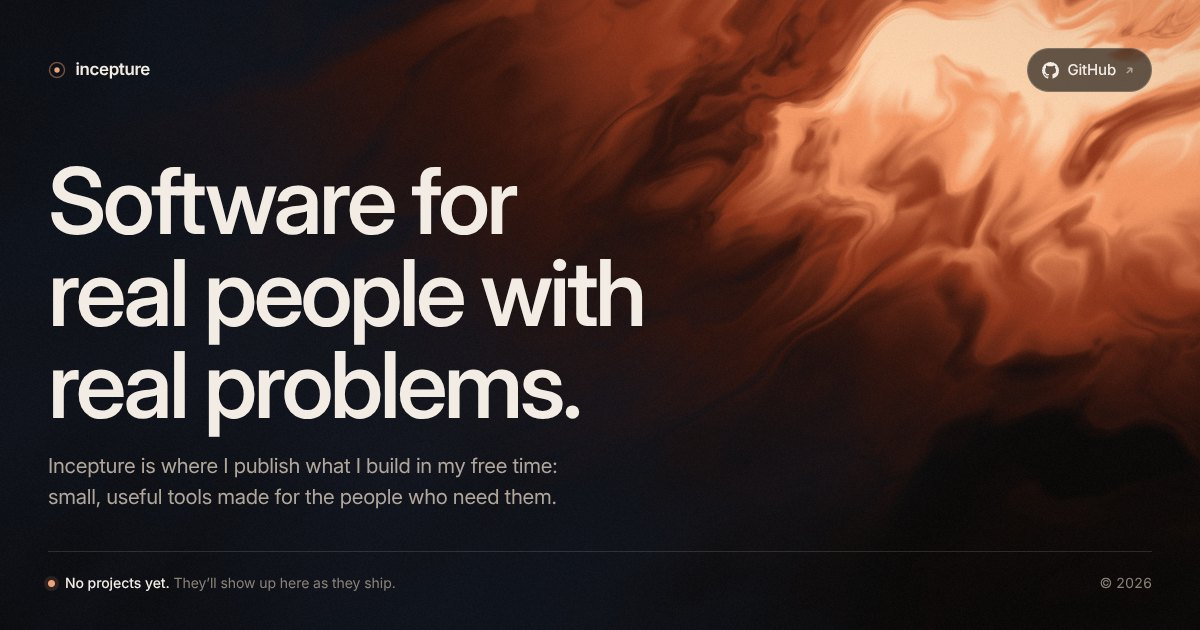
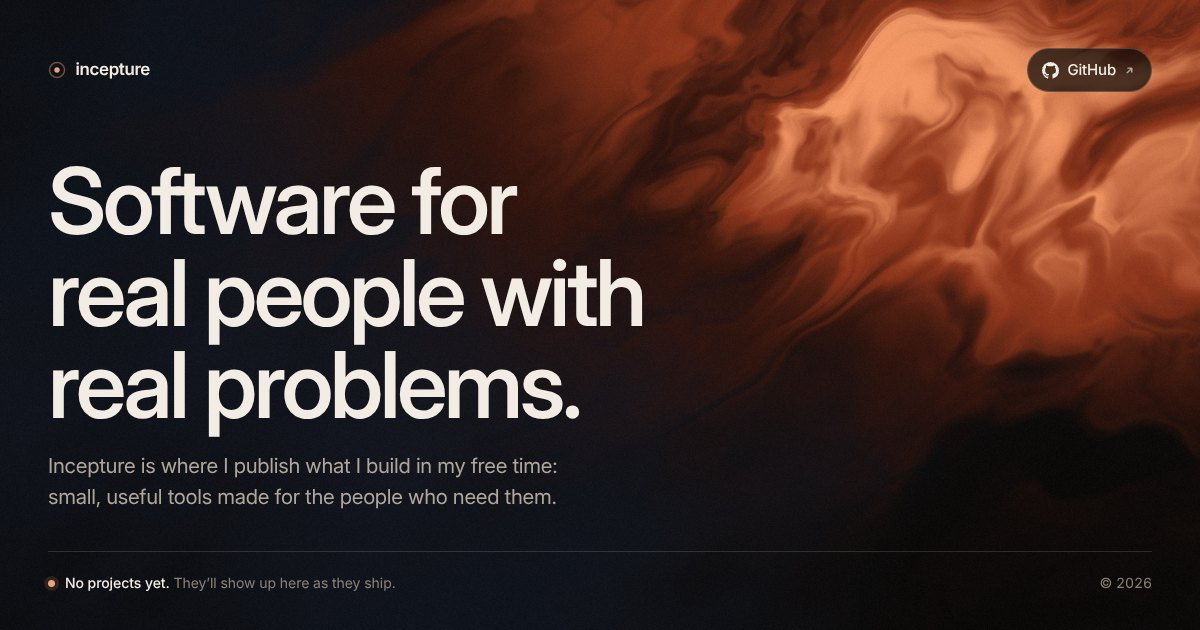
Dim the lit corner behind the GitHub link
Claude-Session: https://claude.ai/code/session_01MUDdStaj4zessN2r1XYXXu

Changed region(s): [[0.6167, 0.0, 1.0, 0.4222]]

diff --git a/shader.js b/shader.js
@@ -85,19 +85,21 @@
       float d = length((uv - corner) * vec2(1.0, 0.92));
       float light = smoothstep(1.18, 0.12, d);
       light *= light;
+      // Ease off in the corner itself, where the GitHub link sits.
+      light *= 0.66 + 0.34 * smoothstep(0.04, 0.5, d);
 
       // Folds: broad body from the warp, a sharper crest where it turns over.
       float body = smoothstep(0.22, 0.78, f);
       float crest = pow(clamp(1.0 - abs(r.x - r.y) * 3.2, 0.0, 1.0), 3.0);
       float v = body * (0.10 + 0.90 * light) + crest * 0.34 * light;
-      v *= 0.52 + 0.62 * light;
+      v *= 0.52 + 0.58 * light;
 
       vec3 col = INK;
       col = mix(col, SLATE, smoothstep(0.30, 0.75, q.y) * (0.30 + 0.45 * (1.0 - light)));
       col = mix(col, UMBER, smoothstep(0.02, 0.28, v));
       col = mix(col, SIENNA, smoothstep(0.22, 0.56, v));
       col = mix(col, APRICOT, smoothstep(0.52, 0.86, v));
-      col = mix(col, SAND, smoothstep(0.88, 1.16, v) * 0.85);
+      col = mix(col, SAND, smoothstep(0.88, 1.16, v) * 0.7);
 
       // Settle the edges, then dither to keep the dark gradients from banding.
       float vig = smoothstep(1.45, 0.35, length(uv - vec2(0.62, 0.58)) * 1.25);

diff --git a/styles.css b/styles.css
@@ -17,7 +17,7 @@
   --ash: #8a8178;
   --ember: #f2a277;
   --line: rgb(243 236 228 / 0.14);
-  --glass: rgb(12 10 9 / 0.62);
+  --glass: rgb(12 10 9 / 0.72);
 
   --gutter: clamp(1.25rem, 4vw, 3.5rem);
   --ease: cubic-bezier(0.2, 0.7, 0.2, 1);
@@ -159,7 +159,7 @@ h1 {
 
 .gh:hover {
   border-color: rgb(242 162 119 / 0.6);
-  background: rgb(12 10 9 / 0.78);
+  background: rgb(12 10 9 / 0.86);
 }
 
 .gh:hover .gh-arrow {
